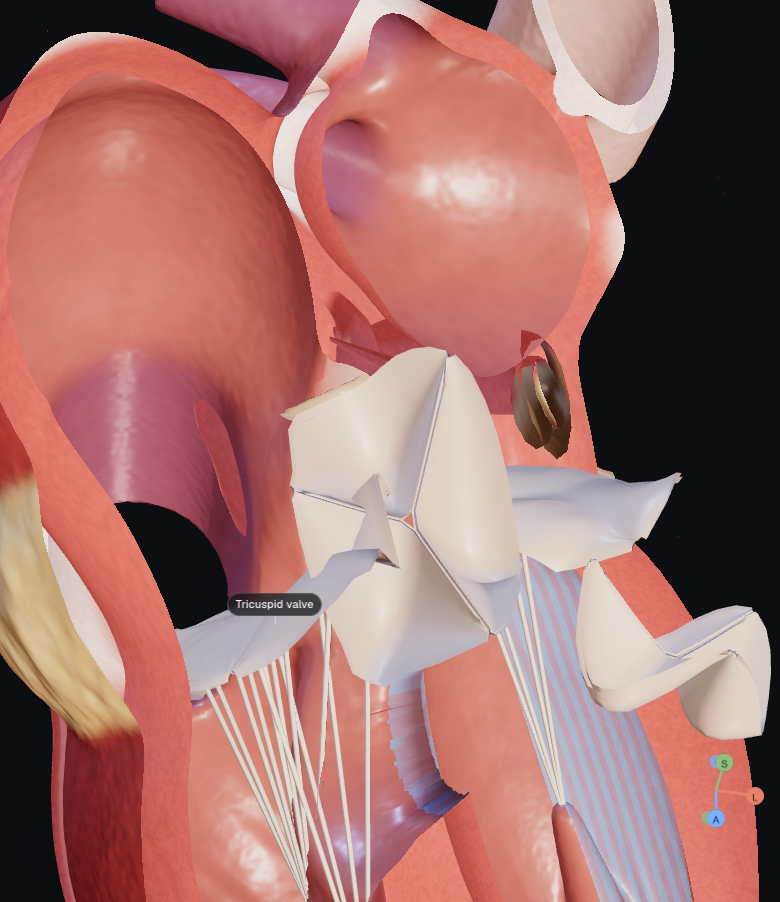
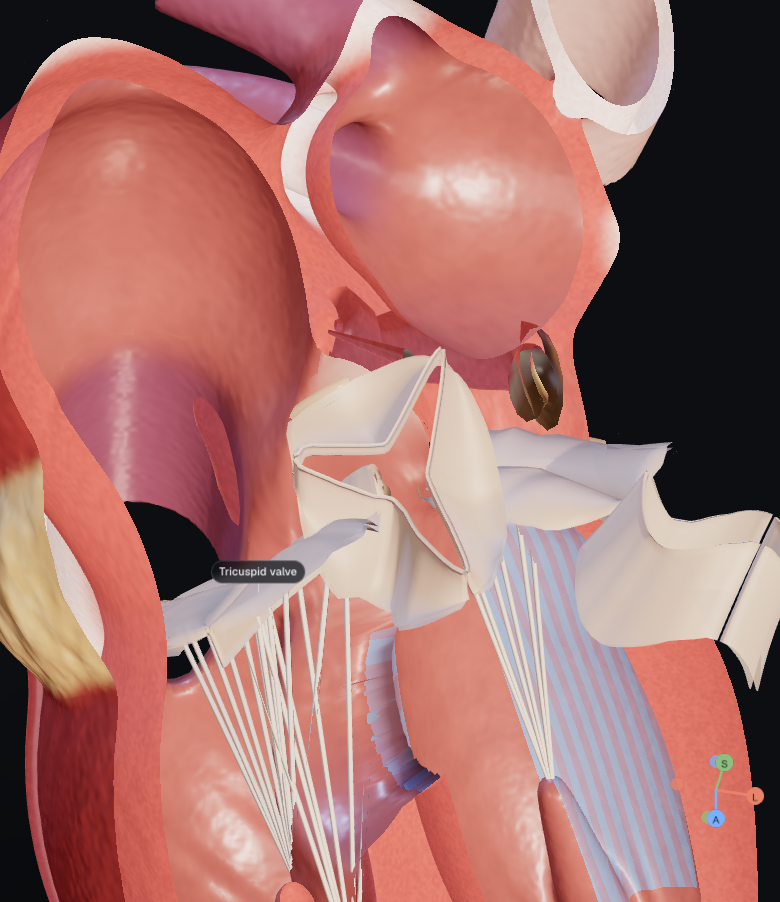
Valves: membrane leaflets with coaptation zones, semilunar cusps inside the wall; short-axis camera

diff --git a/src/scene/geometry/valves.ts b/src/scene/geometry/valves.ts
@@ -42,7 +42,7 @@ export function restAnnulus(spec: ValveSpec, center: V, normal: V, radius: numbe
       // commissures sit downstream (higher), cusp nadirs upstream
       const k = spec.commissures.length;
       const phase = spec.commissures[0];
-      h = 0.32 * radius * Math.cos(k * (u - phase));
+      h = 0.22 * radius * Math.cos(k * (u - phase));
     }
     pts.push(center.clone().addScaledVector(e1, Math.cos(u) * radius).addScaledVector(e2, Math.sin(u) * radius).addScaledVector(n, h));
   }
@@ -59,8 +59,8 @@ export interface ValveState {
  * Builds leaflets between the deformed annulus and a closure target. Returns positions for a
  * double-layer shell (thickness `thick`), written into `out` (sized by leafletVertexCount).
  */
-export const NU = 14; // samples across each leaflet
-export const NV = 8; // samples from hinge to free edge
+export const NU = 22; // samples across each leaflet
+export const NV = 12; // samples from hinge to free edge
 export function leafletVertexCount(spec: ValveSpec) { return spec.commissures.length * NU * NV * 2; }
 
 function leafletIndex(spec: ValveSpec): number[] {
@@ -107,15 +107,28 @@ function ringAt(ring: V[], u: number, out: V) {
 /**
  * Update leaflet positions. `ring` is the deformed annulus; `centre`/`normal` its deformed frame.
  * Free-edge points are returned in `edgeOut` for chordae attachment.
+ *
+ * Each leaflet is a smooth membrane: hinge → free edge follows a quadratic Bézier whose control point
+ * carries the belly (AV leaflets billow toward the atrium; semilunar cusps sag into pockets). The last
+ * part of the closed leaflet turns downstream to form a coaptation zone, so neighbouring leaflets meet
+ * along a surface instead of a knife-edge crease.
  */
+const mid = new THREE.Vector3(), du = new THREE.Vector3(), dv = new THREE.Vector3(), nn = new THREE.Vector3();
+let midBuf = new Float32Array(0);
 export function updateLeaflets(spec: ValveSpec, geom: THREE.BufferGeometry, ring: V[], centre: V, normal: V, radius: number, s: ValveState, thick: number, edgeOut: V[]) {
   const pos = geom.getAttribute("position") as THREE.BufferAttribute;
   const arr = pos.array as Float32Array;
   const C = spec.commissures;
   const L = C.length;
   const layer = L * NU * NV;
+  if (midBuf.length < layer * 3) midBuf = new Float32Array(layer * 3);
+  const M = midBuf;
   const n = normal;
+  const av = spec.kind === "atrioventricular";
+  const coapt = av ? 0.24 : 0.2; // fraction of the leaflet in the coaptation zone
+  const coaptLen = (av ? 0.28 : 0.2) * radius;
   let ei = 0;
+  const bez = (a: number, c: number, b: number, t: number) => (1 - t) * (1 - t) * a + 2 * t * (1 - t) * c + t * t * b;
   for (let l = 0; l < L; l++) {
     const u0 = C[l];
     let u1 = C[(l + 1) % L];
@@ -123,55 +136,63 @@ export function updateLeaflets(spec: ValveSpec, geom: THREE.BufferGeometry, ring
     const um = (u0 + u1) / 2;
     for (let i = 0; i < NU; i++) {
       const fu = i / (NU - 1);
-      // keep a sliver at commissures so neighbouring leaflets do not intersect
-      const u = u0 + (u1 - u0) * (0.02 + 0.96 * fu);
+      const u = u0 + (u1 - u0) * (0.015 + 0.97 * fu);
       const hinge = ringAt(ring, u, tmpA);
-      // closure target: Y / line coaptation toward the centre along the commissure lines
+      // closure line: toward the centre along the commissure directions, eased so the edge is curved
       let t: number, dirU: number;
       if (u < um) { t = 1 - (u - u0) / (um - u0); dirU = u0; } else { t = (u - um) / (u1 - um); dirU = u1; }
+      t = t * t * (3 - 2 * t) * 0.85 + t * 0.15;
       const commPt = ringAt(ring, dirU, tmpB);
       const target = tmpC.copy(centre).lerp(commPt, Math.max(t, s.gap));
-      const belly = Math.sin(Math.PI * fu); // 0 at commissures, 1 at the leaflet middle
+      const belly = Math.sin(Math.PI * fu);
+      const rx = hinge.x - centre.x, ry = hinge.y - centre.y, rz = hinge.z - centre.z;
+      const rl = Math.hypot(rx, ry, rz) || 1;
+      // closed-state control point
+      const sag = av ? -(0.22 + s.billow) * radius * (0.35 + 0.65 * belly) : -0.62 * radius * (0.25 + 0.75 * belly);
+      const ccx = (hinge.x + target.x) / 2 + n.x * sag, ccy = (hinge.y + target.y) / 2 + n.y * sag, ccz = (hinge.z + target.z) / 2 + n.z * sag;
+      // open-state geometry: soft funnel (AV) or cusp pressed toward the sinus wall (semilunar)
+      const scallop = av ? 1 - 0.12 * Math.pow(Math.sin(Math.PI * fu * (spec.id === "mitral_valve" && l === 1 ? 3 : 2)), 2) : 1;
+      const len = spec.leafletLength * radius * scallop;
+      const inward = av ? 0.32 : 0.18;
+      const ex = hinge.x - rx * inward + n.x * len, ey = hinge.y - ry * inward + n.y * len, ez = hinge.z - rz * inward + n.z * len;
+      // semilunar cusps stay just inside the sinus wall when open (never through it)
+      const bulge = (av ? 0.14 : -0.06) * radius * (0.5 + 0.5 * belly) / rl;
+      const ocx = (hinge.x + ex) / 2 + rx * bulge, ocy = (hinge.y + ey) / 2 + ry * bulge, ocz = (hinge.z + ez) / 2 + rz * bulge;
       for (let j = 0; j < NV; j++) {
         const fv = j / (NV - 1);
-        // closed: hinge -> target, bowing upstream (AV) or forming a pocket downstream-to-upstream (semilunar)
-        let cx = hinge.x + (target.x - hinge.x) * fv;
-        let cy = hinge.y + (target.y - hinge.y) * fv;
-        let cz = hinge.z + (target.z - hinge.z) * fv;
-        const bow = spec.kind === "atrioventricular"
-          ? -(0.1 + s.billow) * radius * Math.sin(Math.PI * fv * 0.85) * (0.4 + 0.6 * belly)
-          : -0.42 * radius * Math.sin(Math.PI * fv * 0.9) * belly;
-        cx += n.x * bow; cy += n.y * bow; cz += n.z * bow;
-        // open: leaflet swings downstream, lying against the wall (semilunar) or hanging as a soft funnel (AV).
-        // Scalloped free edge and a gentle belly so the leaflet reads as a membrane, not a flat sheet.
-        const scallop = spec.kind === "atrioventricular" ? 1 - 0.14 * Math.pow(Math.sin(Math.PI * fu * (spec.id === "mitral_valve" && l === 1 ? 3 : 2)), 2) : 1;
-        const len = spec.leafletLength * radius * scallop;
-        const inward = spec.kind === "atrioventricular" ? 0.3 : 0.1;
-        const bellyOut = (spec.kind === "atrioventricular" ? -0.16 : -0.08) * radius * Math.sin(Math.PI * fv) * (0.5 + 0.5 * belly);
-        const rx = hinge.x - centre.x, ry = hinge.y - centre.y, rz = hinge.z - centre.z;
-        const rl = Math.hypot(rx, ry, rz) || 1;
-        const pull = inward * fv * fv - bellyOut / rl;
-        const ox = hinge.x - rx * pull + n.x * len * fv;
-        const oy = hinge.y - ry * pull + n.y * len * fv;
-        const oz = hinge.z - rz * pull + n.z * len * fv;
+        // closed: belly curve to the coaptation line, then the coaptation zone runs downstream
+        let cx: number, cy: number, cz: number;
+        if (fv <= 1 - coapt) {
+          const tt = fv / (1 - coapt);
+          cx = bez(hinge.x, ccx, target.x, tt); cy = bez(hinge.y, ccy, target.y, tt); cz = bez(hinge.z, ccz, target.z, tt);
+        } else {
+          const tt = (fv - (1 - coapt)) / coapt;
+          const d = coaptLen * tt * (1 - 0.25 * tt);
+          cx = target.x + n.x * d; cy = target.y + n.y * d; cz = target.z + n.z * d;
+        }
+        const ox = bez(hinge.x, ocx, ex, fv), oy = bez(hinge.y, ocy, ey, fv), oz = bez(hinge.z, ocz, ez, fv);
         const o = s.opening;
-        const x = cx + (ox - cx) * o, y = cy + (oy - cy) * o, z = cz + (oz - cz) * o;
         const k = (l * NU * NV + i * NV + j) * 3;
-        arr[k] = x; arr[k + 1] = y; arr[k + 2] = z;
-        if (j === NV - 1 && i % 3 === 1 && edgeOut[ei]) edgeOut[ei++].set(x, y, z);
+        M[k] = cx + (ox - cx) * o; M[k + 1] = cy + (oy - cy) * o; M[k + 2] = cz + (oz - cz) * o;
       }
     }
   }
-  // offset layers along the per-vertex surface normal for real thickness
-  geom.computeVertexNormals();
-  const nor = geom.getAttribute("normal") as THREE.BufferAttribute;
-  for (let v = 0; v < layer; v++) {
-    const k = v * 3;
-    const nx = nor.array[k], ny = nor.array[k + 1], nz = nor.array[k + 2];
-    const tx = arr[k], ty = arr[k + 1], tz = arr[k + 2];
-    arr[k] = tx + nx * thick * 0.5; arr[k + 1] = ty + ny * thick * 0.5; arr[k + 2] = tz + nz * thick * 0.5;
-    const kk = (layer + v) * 3;
-    arr[kk] = tx - nx * thick * 0.5; arr[kk + 1] = ty - ny * thick * 0.5; arr[kk + 2] = tz - nz * thick * 0.5;
+  // mid-surface normals from the grid itself (no stale data), then offset both layers for real thickness
+  for (let l = 0; l < L; l++) for (let i = 0; i < NU; i++) for (let j = 0; j < NV; j++) {
+    const at = (ii: number, jj: number) => (l * NU * NV + Math.min(NU - 1, Math.max(0, ii)) * NV + Math.min(NV - 1, Math.max(0, jj))) * 3;
+    const a = at(i + 1, j), b = at(i - 1, j), c = at(i, j + 1), d = at(i, j - 1);
+    du.set(M[a] - M[b], M[a + 1] - M[b + 1], M[a + 2] - M[b + 2]);
+    dv.set(M[c] - M[d], M[c + 1] - M[d + 1], M[c + 2] - M[d + 2]);
+    nn.crossVectors(du, dv).normalize();
+    const k = at(i, j);
+    mid.set(M[k], M[k + 1], M[k + 2]);
+    // leaflets thin slightly toward the free edge (thicker at the hinge / rough zone)
+    const h = thick * 0.5 * (1.15 - 0.35 * (j / (NV - 1)));
+    arr[k] = mid.x + nn.x * h; arr[k + 1] = mid.y + nn.y * h; arr[k + 2] = mid.z + nn.z * h;
+    const kk = layer * 3 + k;
+    arr[kk] = mid.x - nn.x * h; arr[kk + 1] = mid.y - nn.y * h; arr[kk + 2] = mid.z - nn.z * h;
+    // chordae insert just behind the free edge on the ventricular side
+    if (j === NV - 2 && i % 3 === 1 && edgeOut[ei]) edgeOut[ei++].set(mid.x - nn.x * h, mid.y - nn.y * h, mid.z - nn.z * h);
   }
   pos.needsUpdate = true;
   geom.computeVertexNormals();

diff --git a/src/scene/layers/ValveRig.ts b/src/scene/layers/ValveRig.ts
@@ -39,7 +39,8 @@ export class ValveRig {
   private matrix = new THREE.Matrix4();
 
   constructor(sampler: AttributeSampler, clipping: THREE.Plane[]) {
-    this.leafletMaterial = new THREE.MeshPhysicalMaterial({ color: 0xf2dfcb, roughness: 0.5, clearcoat: 0.35, clearcoatRoughness: 0.3, sheen: 0.7, sheenRoughness: 0.5, sheenColor: new THREE.Color(1.0, 0.72, 0.66), side: THREE.DoubleSide, transparent: true, opacity: 0.93, clippingPlanes: clipping });
+    // thin fibrous membrane: warm off-white, soft sheen, slight translucency (approximation; no transmission pass)
+    this.leafletMaterial = new THREE.MeshPhysicalMaterial({ color: 0xead2bb, roughness: 0.58, clearcoat: 0.25, clearcoatRoughness: 0.45, sheen: 0.85, sheenRoughness: 0.45, sheenColor: new THREE.Color(1.0, 0.68, 0.6), side: THREE.DoubleSide, transparent: true, opacity: 0.88, depthWrite: true, clippingPlanes: clipping });
     this.annulusMaterial = new THREE.MeshPhysicalMaterial({ color: 0xd8b8a0, roughness: 0.55, clearcoat: 0.2, clippingPlanes: clipping });
     this.chordMaterial = new THREE.MeshStandardMaterial({ color: 0xf0e4d4, roughness: 0.5, clippingPlanes: clipping });
     const m = HEART_MANIFEST;
@@ -55,7 +56,7 @@ export class ValveRig {
       const vm = m.valves[id];
       const center = V(vm.center), normal = V(vm.normal).normalize();
       const ref = id === "mitral_valve" ? V(m.valves.aortic_valve.center) : id === "tricuspid_valve" ? lvBase.clone().addScaledVector(sep, 3) : center.clone().add(new THREE.Vector3(0, 0, 1));
-      const restRing = restAnnulus(spec, center, normal, vm.radius * 0.92, ref);
+      const restRing = restAnnulus(spec, center, normal, vm.radius * (spec.kind === "semilunar" ? 0.84 : 0.92), ref);
       const ringAttrs = restRing.map((p) => sampler.nearest(p));
       const leaflets = new THREE.Mesh(createLeafletGeometry(spec), this.leafletMaterial);
       leaflets.userData.structure = id;
@@ -115,14 +116,14 @@ export class ValveRig {
         gap: valve.regurgitation ? GAP[valve.regurgitation] : 0,
         billow: valve.prolapse ? 0.35 : 0,
       };
-      updateLeaflets(spec, part.leaflets.geometry, part.ring, centre, normal, radius, state, 0.045, part.edges);
+      updateLeaflets(spec, part.leaflets.geometry, part.ring, centre, normal, radius, state, 0.055, part.edges);
       updateRingTube(part.annulus.geometry, part.ring, 0.1);
       if (part.chordae) {
         for (const t of part.papTips) this.deform(P, t.rest, t.attrs, t.now);
         part.edges.forEach((e, i) => {
           let tip = part.papTips[0].now;
           if (part.id === "mitral_valve") tip = e.distanceTo(part.papTips[0].now) < e.distanceTo(part.papTips[1].now) ? part.papTips[0].now : part.papTips[1].now;
-          else tip = i < 5 ? part.papTips[1].now : part.papTips[0].now; // septal leaflet -> septal attachment
+          else tip = i < part.edges.length / VALVE_SPECS[part.id].commissures.length ? part.papTips[1].now : part.papTips[0].now; // septal leaflet -> septal attachment
           const len = e.distanceTo(tip);
           // Matrix4.lookAt(eye, target) points +Z from target to eye; the cylinder extends along +Z
           this.matrix.lookAt(tip, e, this.tmp.set(0, 1, 0));
@@ -139,7 +140,7 @@ export class ValveRig {
       const highlight = opts.selected === part.id ? 0.35 : opts.hover === part.id ? 0.18 : 0;
       const base = opts.clinical
         ? f.stenosis ? new THREE.Color(0.95, 0.66, 0.1) : f.regurgitation ? new THREE.Color(0.85, 0.35, 0.75) : new THREE.Color(0.78, 0.8, 0.85)
-        : new THREE.Color(0xf2dfcb);
+        : new THREE.Color(0xead2bb);
       const target = base.lerp(new THREE.Color(1, 1, 1), highlight);
       if (!(part.leaflets.material as THREE.MeshPhysicalMaterial).userData.perValve) {
         part.leaflets.material = this.leafletMaterial.clone();

diff --git a/src/components/workspace/SceneToolbar.tsx b/src/components/workspace/SceneToolbar.tsx
@@ -14,6 +14,7 @@ const PRESETS: { id: CameraPreset; label: string; key: string }[] = [
   { id: "superior", label: "Superior", key: "5" },
   { id: "inferior", label: "Inferior", key: "6" },
   { id: "four_chamber", label: "Four-chamber", key: "7" },
+  { id: "short_axis", label: "LV short axis", key: "0" },
   { id: "mitral_closeup", label: "Mitral close-up", key: "8" },
   { id: "aortic_closeup", label: "Aortic close-up", key: "9" },
 ];
@@ -97,7 +98,13 @@ export function SceneToolbar({ onFallback, tierName, lod }: { onFallback: () => 
           <Switch label="Cutaway plane" hint="Reveals modelled interior geometry with section shading" checked={s.cutaway.enabled} onChange={(v) => s.set({ cutaway: { ...s.cutaway, enabled: v } })} />
           <label className="mt-2 block text-[12px] text-muted" htmlFor="cut-axis">Plane</label>
           <select id="cut-axis" className="mt-1 h-8 w-full rounded-lg border border-line bg-panel-2 px-2 text-[13px]" value={s.cutaway.axis}
-            onChange={(e) => s.set({ cutaway: { ...s.cutaway, axis: e.target.value as CutAxis, enabled: true } })}>
+            onChange={(e) => {
+              const axis = e.target.value as CutAxis;
+              s.set({ cutaway: { ...s.cutaway, axis, enabled: true } });
+              // frame the cut face so the section (not the outside) faces the viewer
+              if (axis === "short_axis") s.requestCamera("short_axis");
+              if (axis === "four_chamber") s.requestCamera("four_chamber");
+            }}>
             <option value="four_chamber">Four-chamber (long axis)</option>
             <option value="short_axis">LV short axis</option>
             <option value="coronal">Coronal</option>

diff --git a/src/scene/geometry/sceneFrame.ts b/src/scene/geometry/sceneFrame.ts
@@ -29,10 +29,16 @@ export function cameraPose(preset: CameraPreset, distance = CAMERA_DISTANCE): Ca
       const t = toWorld(lv.base).addScaledVector(AXIS, 2.5);
       return at(ANT.clone().addScaledVector(AXIS, 0.35), distance * 0.85, t, AXIS.clone().negate());
     }
+    case "short_axis": {
+      // look from the base toward the apex so the short-axis cut face (apical part kept) faces the camera
+      const t = toWorld(lv.base).addScaledVector(AXIS, 4.2);
+      return at(AXIS.clone().negate(), distance * 0.75, t, ANT.clone());
+    }
     case "mitral_closeup": {
+      // side view across the valve from the four-chamber cut: leaflets, chordae and the atrial side together
       const mv = HEART_MANIFEST.valves.mitral_valve;
-      const c = toWorld(mv.center);
-      return at(new THREE.Vector3(...(mv.normal as [number, number, number])).addScaledVector(ANT, 0.9), 19, c, AXIS.clone().negate());
+      const c = toWorld(mv.center).addScaledVector(new THREE.Vector3(...(mv.normal as [number, number, number])), -0.8);
+      return at(ANT.clone().addScaledVector(SEP, -0.35), 21, c, AXIS.clone().negate());
     }
     case "aortic_closeup": {
       const av = HEART_MANIFEST.valves.aortic_valve;

diff --git a/src/scene/layers/FlowRig.ts b/src/scene/layers/FlowRig.ts
@@ -30,7 +30,7 @@ export class FlowRig {
   private tmp: [number, number, number] = [0, 0, 0];
   private valveRest: Record<ValveId, { c: THREE.Vector3; n: THREE.Vector3; attrs: SampledAttributes }>;
   readonly count = 260;
-  readonly jetCount = 120;
+  readonly jetCount = 180;
 
   constructor(sampler: AttributeSampler, clipping: THREE.Plane[]) {
     const m = HEART_MANIFEST;
@@ -60,7 +60,7 @@ export class FlowRig {
       return p;
     };
     this.forward = mk(this.count, new THREE.Color(0.92, 0.93, 0.96), 0.22);
-    this.jets = mk(this.jetCount, new THREE.Color(1.0, 0.72, 0.12), 0.26);
+    this.jets = mk(this.jetCount, new THREE.Color(1.0, 0.72, 0.12), 0.34);
     this.forward.renderOrder = 5;
     this.jets.renderOrder = 6;
     this.group.add(this.forward, this.jets);

diff --git a/src/state/store.ts b/src/state/store.ts
@@ -8,7 +8,7 @@ export type DisplayMode = "natural" | "clinical";
 export type CutAxis = "coronal" | "sagittal" | "short_axis" | "four_chamber";
 export type Quality = "auto" | "high" | "low";
 export type InspectorTab = "observations" | "changes" | "evidence" | "warnings";
-export type CameraPreset = "anterior" | "posterior" | "left_lateral" | "right_lateral" | "superior" | "inferior" | "four_chamber" | "mitral_closeup" | "aortic_closeup";
+export type CameraPreset = "anterior" | "posterior" | "left_lateral" | "right_lateral" | "superior" | "inferior" | "four_chamber" | "short_axis" | "mitral_closeup" | "aortic_closeup";
 
 export interface Layers {
   outer: boolean;

diff --git a/docs/anatomy-review.md b/docs/anatomy-review.md
@@ -36,7 +36,7 @@ baseline (LVEDD 45.7 mm, IVSd 9.5 mm, LV EDV 104 mL, RV basal 26 mm, LA 26 mL).
 | Vessel integration | **pass** | Smoothly blended roots, visible wall thickness at cut ends (`superior.png`, cutaways) |
 | Tissue realism | **needs revision** | Restrained and seam-free, but procedural colour/relief only (no baked maps); surface reads slightly smooth/illustrative rather than photographic |
 | Interior | **pass** | `cutaway-four-chamber-*.png`: four chambers, septum, papillary muscles, chordae, wall thickness |
-| Valve close-up | **needs revision** | `valve-aortic-stenosis-closeup.png`, `valve-mitral-regurgitation-cue.png`: leaflets are discernible and attached but look like stiff folded sheets; close-up framing is cluttered |
+| Valve close-up | **needs revision (improved)** | Leaflets are now Bézier membranes with bellies, scalloped mitral edges, a coaptation zone, tapering thickness and grid-derived normals (`valve-mitral-open.png`, `valve-aortic-closed.png`); severe aortic stenosis shows a small triangular orifice (`valve-aortic-stenosis-closeup.png`). Still visibly CG at close range: no nodules/lunules, uniform material, and at the four-chamber cut edge part of a mitral leaflet can appear outside the sectioned wall |
 | Dynamic coherence | **pass (visual inspection only)** | No tearing or detached vessels observed across the cycle; weights are continuous by construction. Not checked automatically for self-intersection |
 | Measurement response | **pass** | Volume tests (exact EDV/ESV targets); SYN-02/03/07 visibly change only relevant structures |
 | Annotation | **pass** | Labels follow live 3D anchors, hide when occluded or clipped |
@@ -45,8 +45,9 @@ baseline (LVEDD 45.7 mm, IVSd 9.5 mm, LV EDV 104 mL, RV basal 26 mm, LA 26 mL).
 
 ## Known defects
 
-1. Valve leaflets look papery in close-up; the regurgitation cue is hard to see in the mitral close-up preset.
-2. The short-axis cutaway preset views from below, so it shows the epicardium instead of the cut face; rotate manually to see the section.
+1. Valve leaflets read as illustration rather than tissue in close-up; the mitral regurgitation cue is small at the default framing.
+2. Fixed: choosing the short-axis cut now frames the cut face from the base (`cutaway-short-axis.png`).
 3. One acute-marginal/anterior-cardiac branch on the RV runs as a near-straight line (`right-lateral.png`).
 4. No baked normal/roughness textures; micro-detail is procedural.
 5. Coronary course fixed to one right-dominant pattern; no variants.
+6. A coronary ostium tube end is visible inside the aortic root in the aortic close-up.
